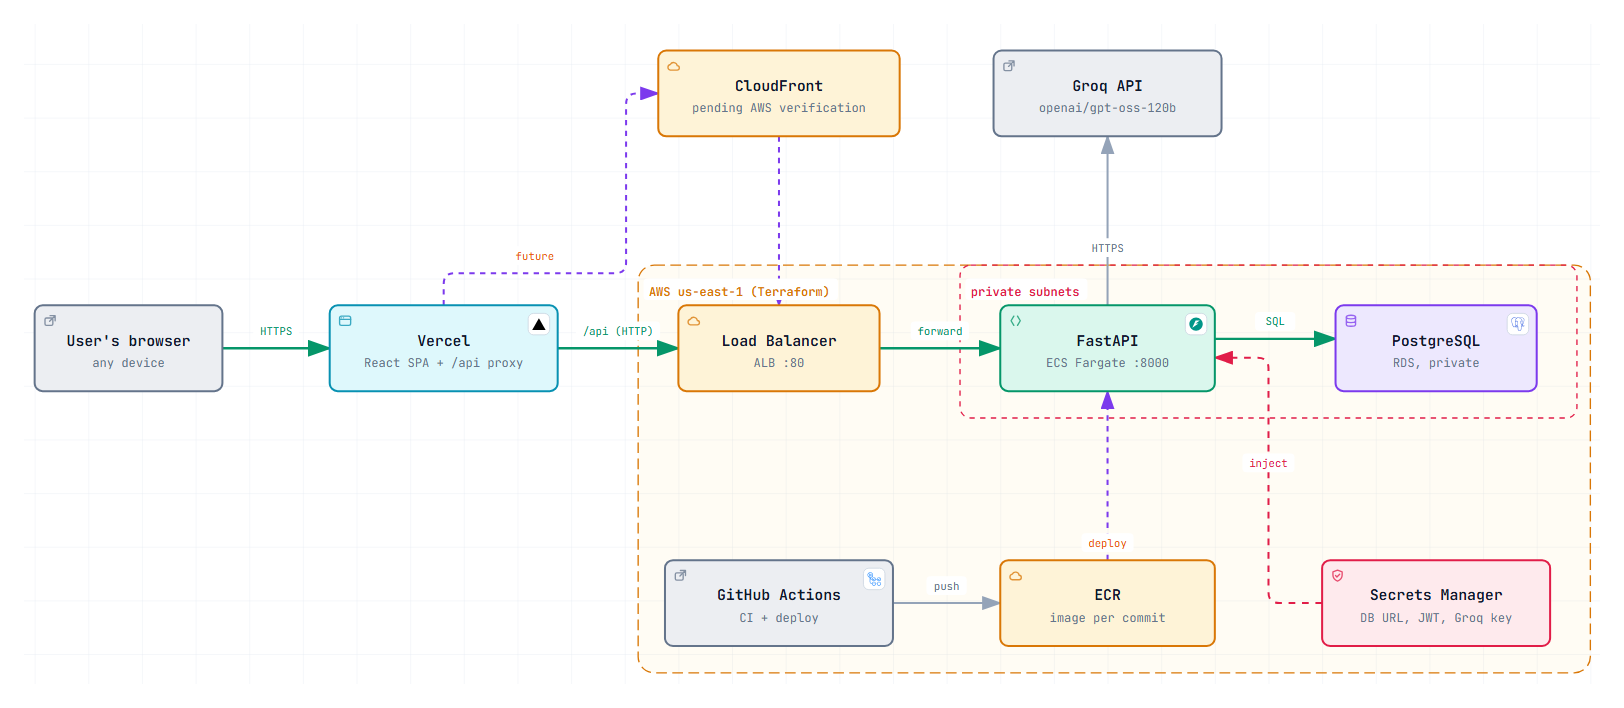
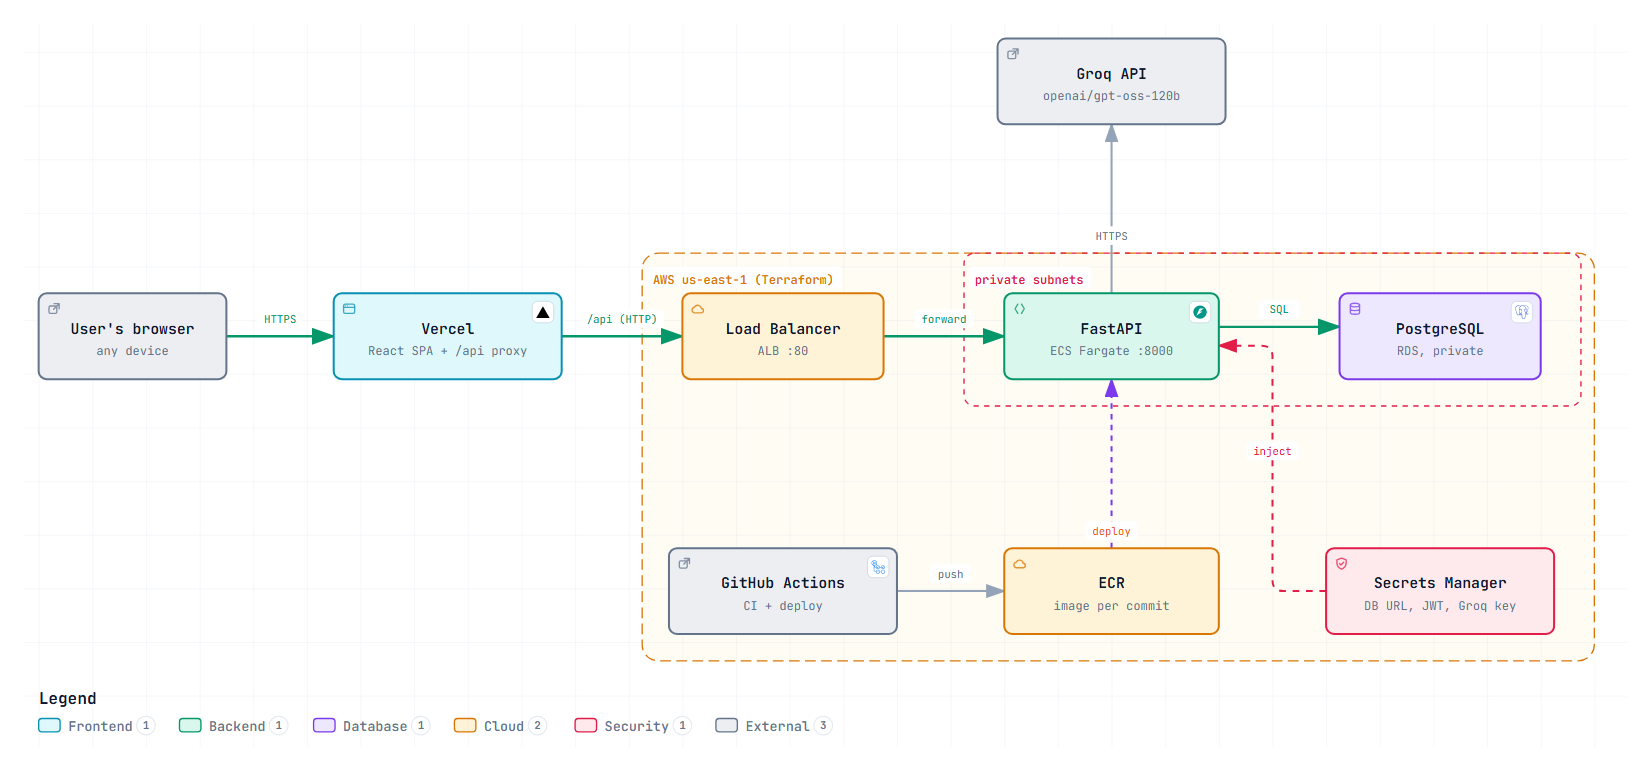
README: showcase-only content; redraw architecture without pending CloudFront [skip ci]
- Remove live demo link, internal doc links, cost/free-tier notes and
  development-history details; replace Known limitations with Future improvements
- Trim deployment section to a short summary
- Regenerate architecture.png from Archify without the pending CloudFront node

diff --git a/README.md b/README.md
@@ -2,8 +2,6 @@
 
 Plan a trip by describing it in plain English (or Hinglish). An AI assistant turns your message into a trip draft (destination, dates and trip type) for you to review. You then plan each day and save the itinerary as a PDF.
 
-**Live demo:** https://musafir-trip-planner.vercel.app (sign up with any username; no email needed)
-
 ![Trip itinerary](docs/screenshots/itinerary.png)
 
 ---
@@ -22,14 +20,11 @@ Plan a trip by describing it in plain English (or Hinglish). An AI assistant tur
 - [API](#api)
 - [Testing](#testing)
 - [Deployment](#deployment)
-- [Known limitations](#known-limitations)
 - [Future improvements](#future-improvements)
 
 ## Why this project
 
 Travellers usually spread their plans across notes apps, spreadsheets and chat threads, which makes an itinerary hard to keep organised and hard to use on the road. Musafir keeps each trip in one place, with one card per day, and produces a clean PDF when the plan is done.
-
-It's a solo project that goes from written specs to a production deployment: a typed React frontend, a FastAPI backend with its own test suite, an LLM feature with structured output, AWS infrastructure written in Terraform, and a CI/CD pipeline that deploys every push.
 
 ## Key features
 
@@ -78,14 +73,11 @@ It's a solo project that goes from written specs to a production deployment: a t
 
 ![Architecture diagram](docs/architecture/architecture.png)
 
-*An interactive version of this diagram is in [docs/architecture/musafir-v2.architecture.html](docs/architecture/musafir-v2.architecture.html). It was made with Archify.*
-
 - The **browser** only talks to **Vercel** over HTTPS. Vercel serves the React app and forwards `/api/*` requests to the AWS load balancer.
 - **FastAPI** runs as a container on **ECS Fargate** in private subnets. It checks the JWT on every trip and AI request.
 - **PostgreSQL on RDS** sits in private subnets and accepts connections only from the ECS service.
 - **Secrets Manager** supplies the database URL, the JWT secret and the Groq key to the container when it starts. No secrets are in the code or the image.
 - **GitHub Actions** signs in to AWS through **OIDC**, so there are no stored AWS keys. It pushes an image tagged with the commit to **ECR** and rolls it out to ECS.
-- **CloudFront** is written in Terraform but not deployed yet (see [Known limitations](#known-limitations)).
 
 ## How it works
 
@@ -109,7 +101,7 @@ sequenceDiagram
     API-->>FE: trip with one Day per date
 ```
 
-- **Structured output.** The model must answer in a strict JSON schema, and Groq enforces it while generating. An earlier version used forced tool calls, which failed on about 1 in 4 follow-up turns; strict schemas fixed that and roughly halved the response time.
+- **Structured output.** The model must answer in a strict JSON schema, and Groq enforces it while generating, so every reply parses reliably (about 1.7 s per turn).
 - **Swappable provider.** The model is called through a small `ProviderAdapter` interface, so tests replace Groq with a fake and never touch the network.
 - **Rate limits.** When Groq or the per-user limit returns 429, the API passes `Retry-After` through to the browser, which shows a countdown.
 - **The user stays in control.** The draft is only a suggestion. Nothing is saved until the user presses **Create trip** or confirms in the chat.
@@ -140,7 +132,7 @@ trip-planner/
 │   │   ├── hooks/           draft persistence for the AI chat
 │   │   └── pages/           Home, NewTrip, TripItinerary, Login, Signup
 │   └── vercel.json          SPA routing + /api proxy
-├── infra/                   Terraform (see infra/README.md)
+├── infra/                   Terraform
 │   ├── environments/prod/   root module
 │   ├── modules/             network, alb, ecs, database, ecr, iam-oidc, cdn
 │   └── scripts/             backup, destroy, restore
@@ -184,11 +176,11 @@ npm run dev
 
 Open http://localhost:5173 and create an account.
 
-> **Enable the AI assistant locally:** get a free API key from [console.groq.com](https://console.groq.com/keys), then set `AI_ENABLED=true` and `AI_API_KEY=<your key>` in `backend/.env` and restart the backend. Without a key, the manual entry form still works.
+> **Enable the AI assistant locally:** create a Groq API key at console.groq.com, then set `AI_ENABLED=true` and `AI_API_KEY=<your key>` in `backend/.env` and restart the backend. Without a key, the manual entry form still works.
 
 ## Configuration
 
-**Backend** (`backend/.env`, template in [`.env.example`](backend/.env.example)):
+**Backend** (`backend/.env`, copied from `backend/.env.example`):
 
 | Variable | Purpose | Default |
 |---|---|---|
@@ -203,7 +195,7 @@ Open http://localhost:5173 and create an account.
 
 **Frontend** (`frontend/.env`): `VITE_API_BASE_URL` is `http://localhost:8000/api/v1` locally and `/api/v1` in production, where it goes through the Vercel proxy.
 
-In production, secrets live in **AWS Secrets Manager** and are never committed. Terraform variables are described in [`terraform.tfvars.example`](infra/environments/prod/terraform.tfvars.example).
+In production, secrets live in **AWS Secrets Manager** and are never committed.
 
 ## API
 
@@ -230,8 +222,6 @@ All routes are under `/api/v1`. Every route except signup and login needs `Autho
 - **429:** a rate limit was hit; the response includes `Retry-After`.
 - **502, 503, 504:** the AI provider had a problem.
 
-The full contract is in [`specs_new/api-contract-spec.md`](specs_new/api-contract-spec.md).
-
 ## Testing
 
 ```bash
@@ -247,35 +237,27 @@ cd frontend && npm test && npm run lint && npm run build
 | Frontend: `tsc` + Vite production build | passes |
 | CI: Alembic `upgrade head` → `downgrade base` round-trip | passes on every push |
 
-The Groq tests mock the SDK, so the suite never calls the network. The app has also been tested by hand on the live site: sign-up and login, staying logged in after a refresh, creating trips with the AI and by hand, rejecting past dates, the rate-limit countdown, editing activities, and Save as PDF.
+The Groq tests mock the SDK, so the suite never calls the network. The deployed app has also been tested by hand: sign-up and login, staying logged in after a refresh, creating trips with the AI and by hand, rejecting past dates, the rate-limit countdown, editing activities, and Save as PDF.
 
 ## Deployment
 
 | Part | Where | How |
 |---|---|---|
-| Frontend | Vercel project `musafir-trip-planner` | Builds automatically on push to `trip_planner.AI` |
-| Backend | AWS ECS Fargate (`us-east-1`) | `deploy.yml`: run CI → build and push the image to ECR → register a task definition → run `alembic upgrade head` as a one-off task → roll the service → check `/health` |
-| Infrastructure | Terraform, remote state in S3 with a DynamoDB lock | `terraform apply` from `infra/environments/prod` |
+| Frontend | Vercel | Builds automatically on every push |
+| Backend | AWS ECS Fargate | GitHub Actions tests the code, builds the image, runs database migrations and rolls out the new version |
+| Infrastructure | Terraform | All AWS resources are defined in `infra/` |
 
-GitHub Actions signs in to AWS with an **OIDC role** that only it can assume, so no AWS keys are stored in GitHub. [`infra/README.md`](infra/README.md) covers the one-time bootstrap, the repository variables and the scripts for tearing the stack down and restoring it.
-
-## Known limitations
-
-- **CloudFront not deployed yet.** AWS blocks new CloudFront distributions until the account is verified. Until then Vercel proxies `/api` to the load balancer: the browser still uses HTTPS end to end, but the hop from Vercel to AWS is plain HTTP. That's fine for a demo but not for real users.
-- **Groq free tier.** It allows about 5 AI turns per minute across all users. Past that, users see the countdown.
-- **Per-process rate limiter.** The per-user AI limit is kept in memory, so running more than one backend task would need a shared store such as Redis.
-- **Cost when idle.** The NAT Gateway and load balancer are billed by the hour. Use `infra/scripts/destroy.sh` (which takes a snapshot first) and `restore.sh` between demo sessions.
-- **Backups.** The AWS Free plan limits automatic RDS backups to 1 day, so `backup.sh` takes manual snapshots as well.
-- **Username-only accounts.** Sign-up doesn't verify an email address and there's no password reset.
+GitHub Actions signs in to AWS through OIDC, so no AWS keys are stored in GitHub.
 
 ## Future improvements
 
-- Turn on CloudFront (HTTPS all the way to AWS) and a custom domain
-- Email sign-up and password reset
-- Share an itinerary with a read-only link
-- Suggested activities for each day, based on destination and trip type
-- A shared rate-limit store and autoscaling for the backend
-- Split the frontend bundle into smaller chunks (the main bundle is about 740 kB)
+- **CloudFront and a custom domain:** HTTPS all the way to AWS (the Terraform module is already written)
+- **Email accounts:** email sign-up, verification and password reset
+- **Shareable itineraries:** a read-only link for travel companions
+- **Activity suggestions:** AI-suggested activities for each day, based on destination and trip type
+- **Multi-destination trips:** several stops in one trip, each with its own dates
+- **Scaling:** a shared rate-limit store (e.g. Redis) and autoscaling for the backend
+- **Faster loading:** split the frontend bundle so each page loads only the code it needs
 
 ---
 
